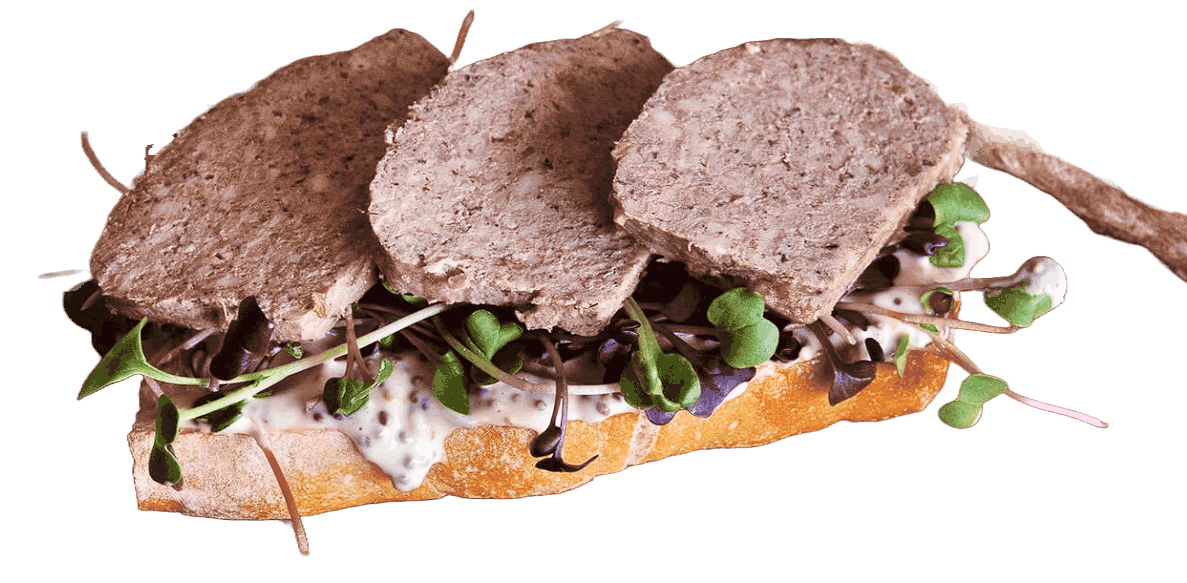
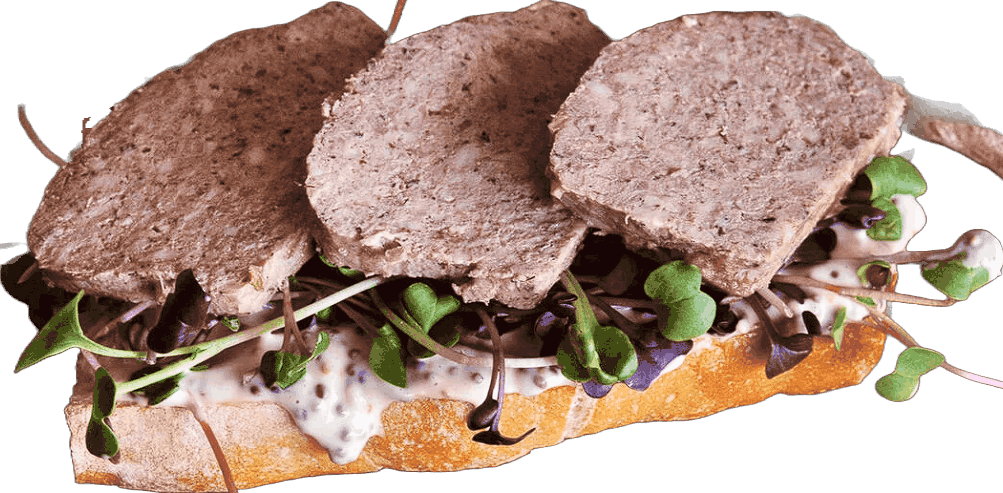
bigger better

diff --git a/static/bio-style.css b/static/bio-style.css
@@ -3,12 +3,12 @@ body {
     background-color: #000000;
     color: #ffffff;
     margin: 0;
-    height: 50vh;
+    height: 50vh; /* already relative to the viewport height */
     display: flex;
     justify-content: flex-start;
     align-items: center;
     flex-direction: column;
-    padding-left: 20px;
+    padding-left: 2rem; /* relative to the root font-size */
     overflow: hidden;
     position: relative;
 }
@@ -27,8 +27,8 @@ body {
 .highlight {
     background-color: #ffffff;
     color: #000000;
-    padding: 5px;
-    margin: 10px 0;
+    padding: 0.5em; /* relative to the current font-size */
+    margin: 1em 0; /* relative to the current font-size */
     transition: all 0.3s ease;
 }
 .highlight:hover {
@@ -52,7 +52,7 @@ body {
 
 #sandwich1, #sandwich2 {
     position: absolute;
-    width: 150px; /* You can adjust this */
+    width: 25vw; /* relative to 15% of the viewport's width */
     height: auto;
     z-index: 10;
 }
